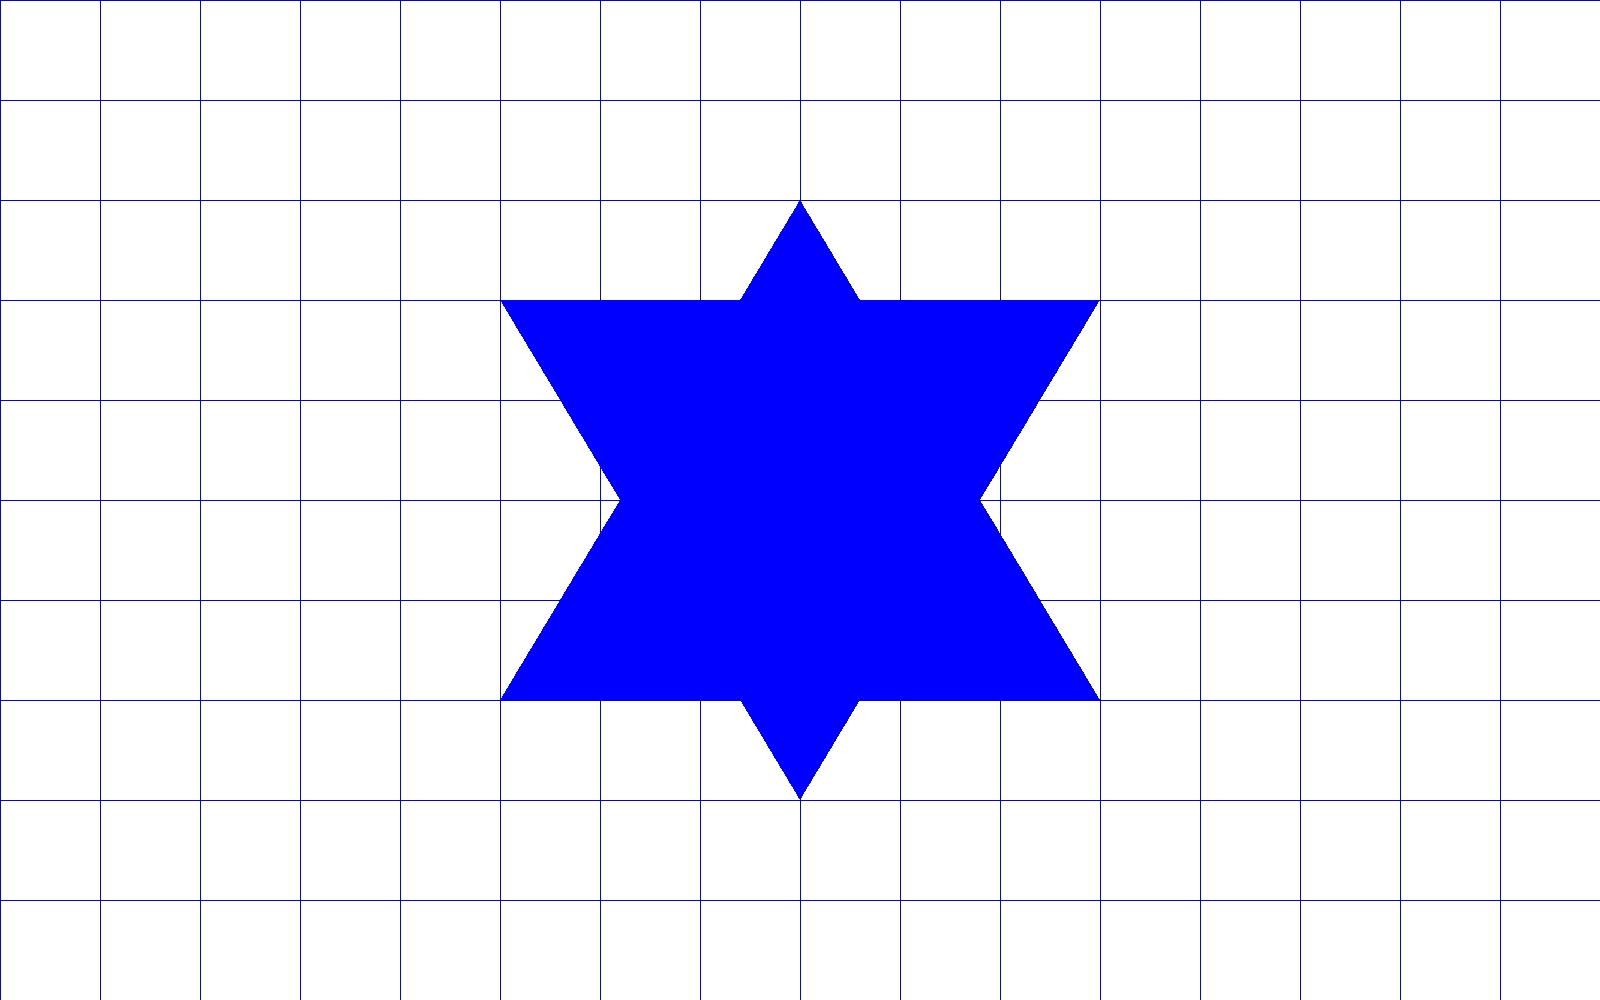
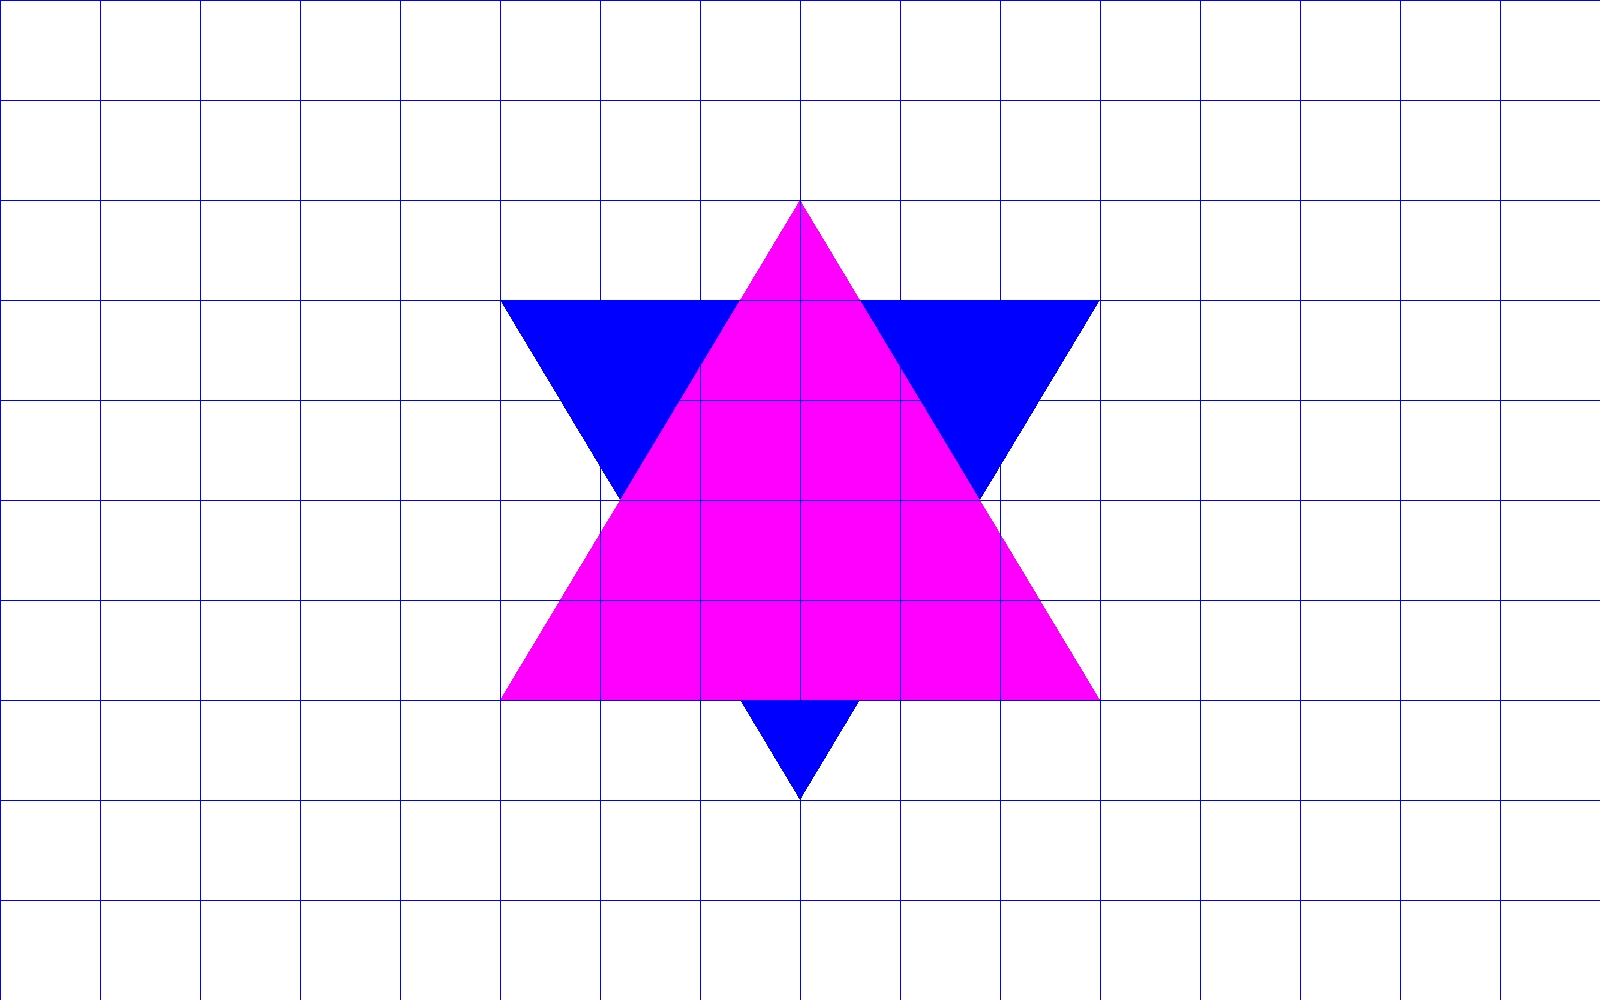
part of targil 5 6/5/20 13:02

Changed region(s): [[0.3125, 0.217, 0.6875, 0.713]]

diff --git a/src/Test/renderer/RenderTests.java b/src/Test/renderer/RenderTests.java
@@ -3,7 +3,7 @@ package Test.renderer;
 
 import elements.*;
 import geometries.*;
-import org.junit.jupiter.api.Test;
+import org.junit.Test;
 import primitives.*;
 import renderer.ImageWriter;
 import renderer.Render;
@@ -16,6 +16,17 @@ import scene.*;
  */
 public class RenderTests {
 
+    @Test
+    public void getClosestPoint() {
+    }
+
+    @Test
+    public void writeToImage() {
+    }
+
+    @Test
+    public void calcColor() {
+    }
     /**
      * Produce a scene with basic 3D model and render it into a jpeg image with a
      * grid
@@ -176,7 +187,7 @@ public class RenderTests {
       //  scene.addGeometries(new Sphere(20, new Point3D(0, 0, 100)));
 //
         scene.addGeometries(
-                new Triangle(new Color(0,0,0),new Point3D(-150, 100, 100), new Point3D(150, 100, 100), new Point3D(0, -150, 100)),
+                new Triangle(new Color(255,0,0),new Point3D(-150, 100, 100), new Point3D(150, 100, 100), new Point3D(0, -150, 100)),
                 new Triangle(new Color(0,0,0),new Point3D(-150, -100, 100), new Point3D(150, -100, 100), new Point3D(0, 150, 100)));
 
         ImageWriter imageWriter = new ImageWriter("base render test 1600X1000 Israel Flag", WIDTH, HEIGHT, NX, NY);
@@ -186,4 +197,39 @@ public class RenderTests {
         render.printGrid(100, java.awt.Color.BLUE);
         render.writeToImage();
     }
+
+
+
+    @Test
+    public void basicRenderTwoColorTest6() {
+        final double WIDTH = 800d;
+        final double HEIGHT = 500d;
+        final int NX =1600;
+        final int NY =1000;
+
+        Scene scene;
+        scene= new Scene.SceneBuilder("Test scene 1600x1000 testcase")
+                .addAmbientLight(new AmbientLight(new Color(0, 0, 0), 1))
+                .addCamera(new Camera(Point3D.ZERO, new Vector(0, 0, 1), new Vector(0, -1, 0)))
+                .addDistance(100)
+                .addBackground(new  Color(0, 0, 0))
+                .build();
+
+        scene.addGeometries(new Sphere(new Color(0,153,153),20, new Point3D(0, 0, 100)));
+//
+        scene.addGeometries(
+                new Triangle(new Color(0,153,153),new Point3D(100, 0, 100), new Point3D(0, 100, 100), new Point3D(100, 100, 100)),
+                new Triangle(new Color(255,0,255),new Point3D(100, 0, 100), new Point3D(0, -100, 100), new Point3D(100, -100, 100)),
+                new Triangle(new Color(0,0,255),new Point3D(-100, 0, 100), new Point3D(0, 100, 100), new Point3D(-100, 100, 100)),
+                new Triangle(new Color(120,0,0),new Point3D(-100, 0, 100), new Point3D(0, -100, 100), new Point3D(-100, -100, 100)));
+
+        ImageWriter imageWriter = new ImageWriter("base render test 1600X1000 testcase", WIDTH, HEIGHT, NX, NY);
+        Render render = new Render(imageWriter, scene);
+
+        render.renderImage();
+        render.printGrid(100, java.awt.Color.BLUE);
+        render.writeToImage();
+    }
+
+
 }

diff --git a/src/geometries/Intersectable.java b/src/geometries/Intersectable.java
@@ -4,6 +4,7 @@ import primitives.*;
 
 
 import java.util.List;
+import java.util.Objects;
 
 /**
  * Intersectable is a common interface for all geometries that are able
@@ -19,7 +20,18 @@ public interface Intersectable {
         public GeoPoint(Geometry _geometry, Point3D pt) {
             this._geometry= _geometry;
             point =pt;
+
         }
+
+        @Override
+        public boolean equals(Object o) {
+            if (this == o) return true;
+            if (o == null || getClass() != o.getClass()) return false;
+            GeoPoint geoPoint = (GeoPoint) o;
+            return _geometry.equals(geoPoint._geometry) &&
+                    point.equals(geoPoint.point);
+        }
+
 
         public Point3D getPoint() {
             return  new Point3D(point);

diff --git a/src/renderer/Render.java b/src/renderer/Render.java
@@ -67,7 +67,7 @@ public class Render {
      * @return the closest point to the camera
      */
 
-    private GeoPoint getClosestPoint(List<GeoPoint> intersectionPoints) {
+    public GeoPoint getClosestPoint(List<GeoPoint> intersectionPoints) {
         GeoPoint result = null;
         double mindist = Double.MAX_VALUE;
 
@@ -113,7 +113,7 @@ public class Render {
      * @return the color intensity
      */
 
-    private Color calcColor(GeoPoint intersection) {
+    public Color calcColor(GeoPoint intersection) {
         Color resultColor;
         Color ambientLight = _scene.getAmbientLight().getIntensity();
         Color emissionLight = intersection.getGeometry().getEmissionLight();

diff --git a/src/geometries/Geometry.java b/src/geometries/Geometry.java
@@ -26,9 +26,9 @@ public abstract class Geometry implements Intersectable {
         this(_emission, new Material(0d, 0d, 0));
     }
 
-//    public Geometry() {
-//        this(Color.BLACK);
-//    }
+   public Geometry() {
+        this(Color.BLACK);
+    }
 
     public Color getEmissionLight() {
         return (_emission);
